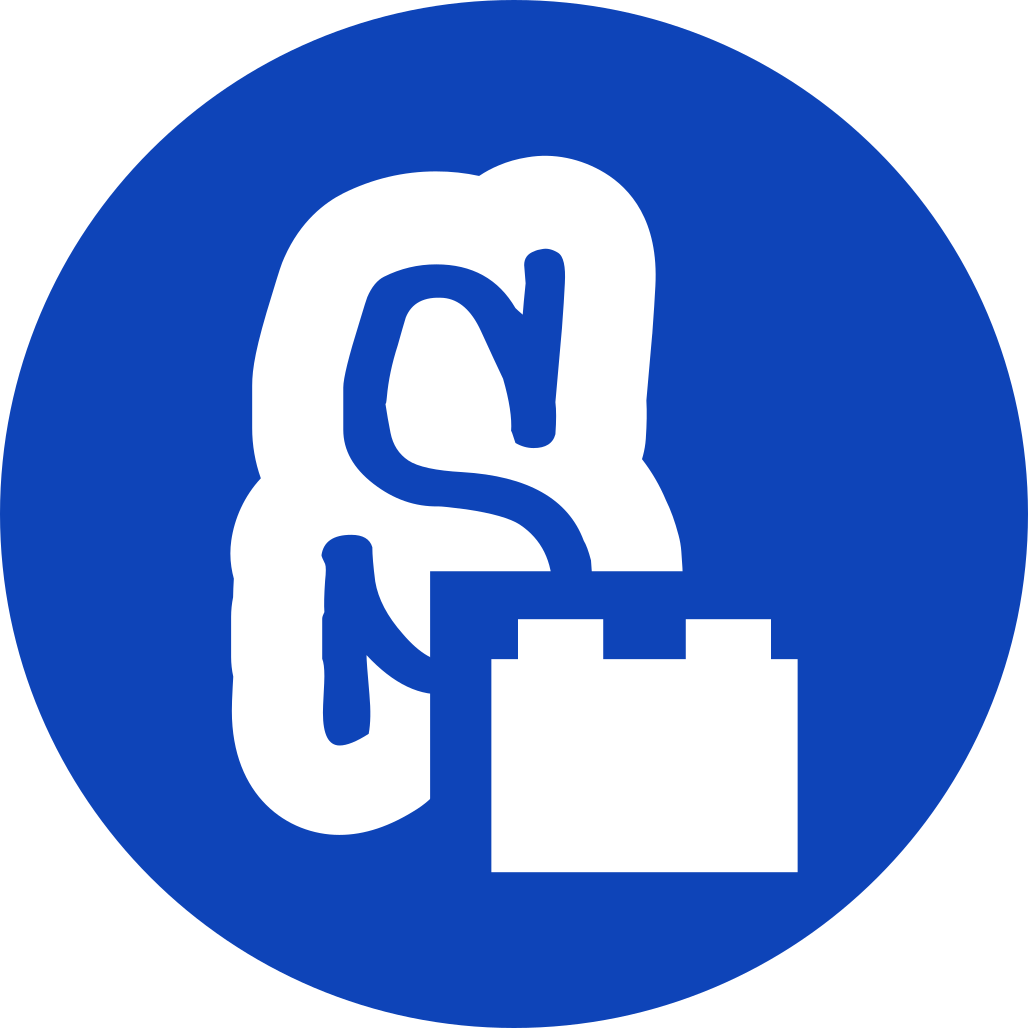
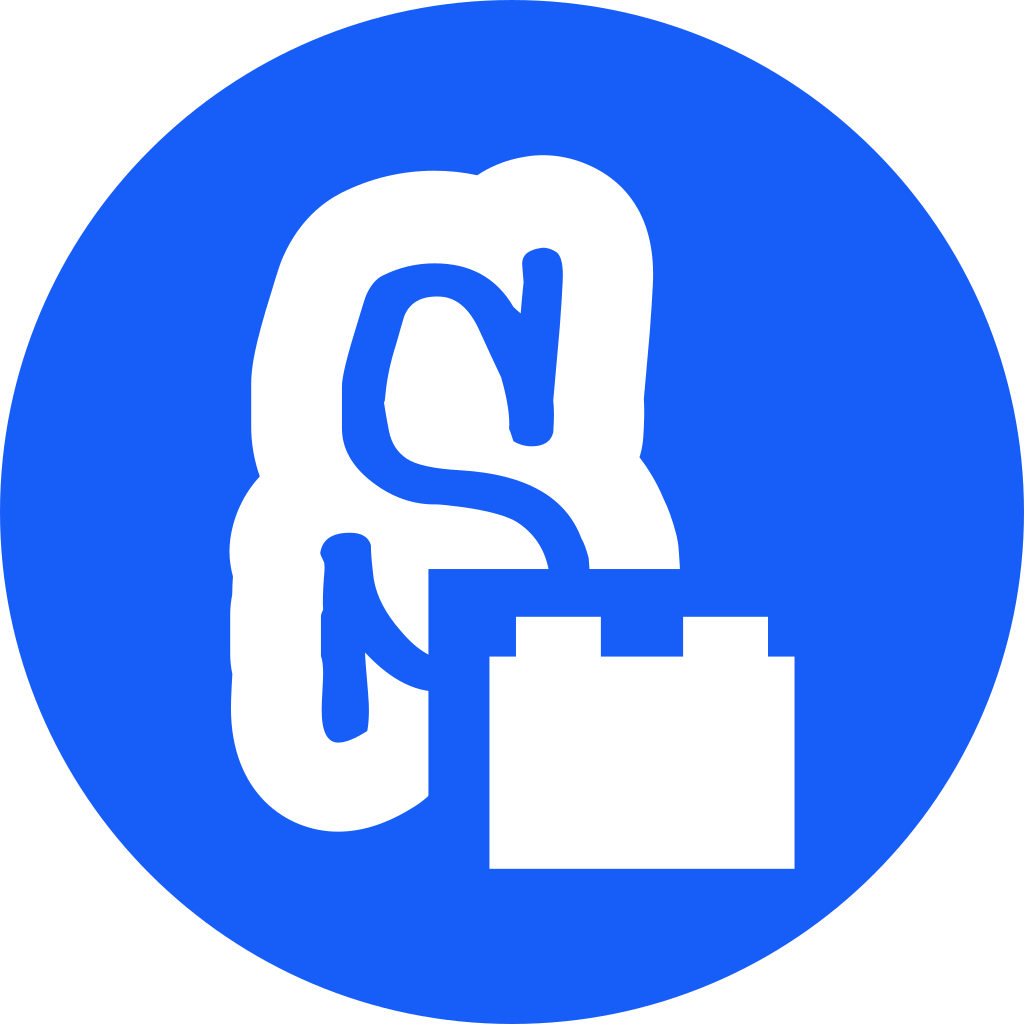
Change colour and compress png

diff --git a/webpages/popup/index.js b/webpages/popup/index.js
@@ -62,8 +62,9 @@ const vue = new Vue({
 
 let manifests = null;
 const TAB_ORDER = ["scratch-messaging", "cloud-games", "__settings__"];
+
 if (chrome.runtime.getManifest().version_name.includes("-prerelease")) {
-  document.getElementById("header").style.backgroundColor = "#0e44b8";
+  document.getElementById("header").style.backgroundColor = "#175ef8";
 }
 
 chrome.runtime.sendMessage("getSettingsInfo", (res) => {

diff --git a/webpages/settings/index.js b/webpages/settings/index.js
@@ -428,7 +428,7 @@ let fuse;
   });
 
   if (chrome.runtime.getManifest().version_name.includes("-prerelease")) {
-    document.querySelector(".navbar").style.backgroundColor = "#0e44b8";
+    document.querySelector(".navbar").style.backgroundColor = "#175ef8";
   }
 
   const getRunningAddons = (manifests, addonsEnabled) => {
